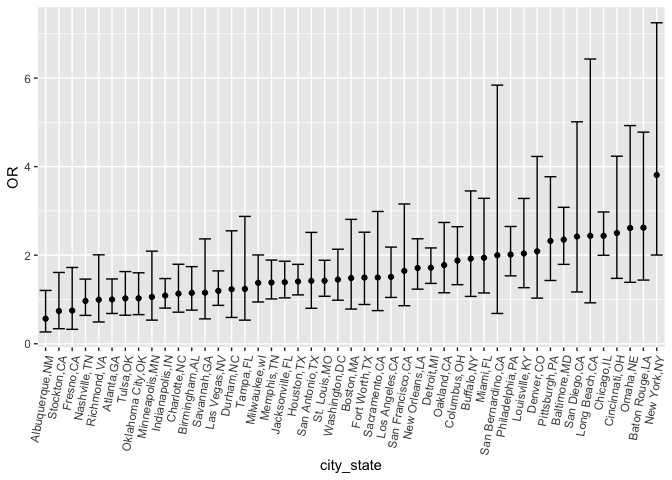
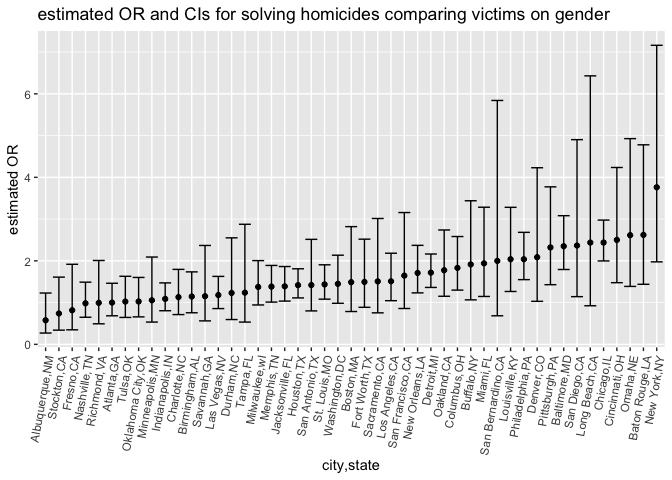
Making comparison in terms of the cross-validated prediction error.

diff --git a/p8105_hw6_jd3924.md b/p8105_hw6_jd3924.md
@@ -40,14 +40,21 @@ Question2
 
 ``` r
 homicides_data = 
-  read_csv("homicide-data.csv") %>%
+  read_csv("homicide-data.csv", na =" ") %>%
+  drop_na() %>%
   mutate(
     city_state = str_c(city,state, sep = ","),
     victim_age = as.numeric(victim_age),
     resolved = ifelse(disposition %in% c("Closed without arrest","Open/No arrest"), "unsolved","solved")) %>%
   filter(victim_race %in% c("White", "Black"),
-         city_state != "Tulsa,AL")
+         !city_state %in% c("Tulsa,AL","Dallas,TX","Phoenix,AZ","Kansas City,MO"),
+         victim_age != "Unknown")
 ```
+
+    ## Warning: One or more parsing issues, call `problems()` on your data frame for details,
+    ## e.g.:
+    ##   dat <- vroom(...)
+    ##   problems(dat)
 
     ## Rows: 52179 Columns: 12
     ## ── Column specification ────────────────────────────────────────────────────────
@@ -64,20 +71,20 @@ homicides_data =
 homicides_data
 ```
 
-    ## # A tibble: 39,693 × 14
+    ## # A tibble: 39,361 × 14
     ##    uid   repor…¹ victi…² victi…³ victi…⁴ victi…⁵ victi…⁶ city  state   lat   lon
     ##    <chr>   <dbl> <chr>   <chr>   <chr>     <dbl> <chr>   <chr> <chr> <dbl> <dbl>
     ##  1 Alb-…  2.01e7 SATTER… VIVIANA White        15 Female  Albu… NM     35.1 -107.
     ##  2 Alb-…  2.01e7 MULA    VIVIAN  White        72 Female  Albu… NM     35.1 -107.
     ##  3 Alb-…  2.01e7 BOOK    GERALD… White        91 Female  Albu… NM     35.2 -107.
     ##  4 Alb-…  2.01e7 MARTIN… GUSTAVO White        56 Male    Albu… NM     35.1 -107.
-    ##  5 Alb-…  2.01e7 LUJAN   KEVIN   White        NA Male    Albu… NM     35.1 -107.
-    ##  6 Alb-…  2.01e7 GRAY    STEFAN… White        43 Female  Albu… NM     35.1 -107.
-    ##  7 Alb-…  2.01e7 DAVID   LARRY   White        52 Male    Albu… NM     NA     NA 
-    ##  8 Alb-…  2.01e7 BRITO   ELIZAB… White        22 Female  Albu… NM     35.1 -107.
-    ##  9 Alb-…  2.01e7 KING    TEVION  Black        15 Male    Albu… NM     35.1 -107.
-    ## 10 Alb-…  2.01e7 BOYKIN  CEDRIC  Black        25 Male    Albu… NM     35.1 -107.
-    ## # … with 39,683 more rows, 3 more variables: disposition <chr>,
+    ##  5 Alb-…  2.01e7 GRAY    STEFAN… White        43 Female  Albu… NM     35.1 -107.
+    ##  6 Alb-…  2.01e7 BRITO   ELIZAB… White        22 Female  Albu… NM     35.1 -107.
+    ##  7 Alb-…  2.01e7 KING    TEVION  Black        15 Male    Albu… NM     35.1 -107.
+    ##  8 Alb-…  2.01e7 BOYKIN  CEDRIC  Black        25 Male    Albu… NM     35.1 -107.
+    ##  9 Alb-…  2.01e7 BARRAG… MIGUEL  White        20 Male    Albu… NM     35.1 -107.
+    ## 10 Alb-…  2.01e7 WRONSKI VIOLA   White        88 Female  Albu… NM     35.1 -107.
+    ## # … with 39,351 more rows, 3 more variables: disposition <chr>,
     ## #   city_state <chr>, resolved <chr>, and abbreviated variable names
     ## #   ¹reported_date, ²victim_last, ³victim_first, ⁴victim_race, ⁵victim_age,
     ## #   ⁶victim_sex
@@ -149,11 +156,11 @@ glm_cities
     ## # A tibble: 193 × 9
     ##    city_state     term   estimate std.e…¹ statis…² p.value      OR lower   upper
     ##    <chr>          <chr>     <dbl>   <dbl>    <dbl>   <dbl>   <dbl> <dbl>   <dbl>
-    ##  1 Albuquerque,NM (Inte… -6.12e-1 6.32e-1 -9.69e-1 3.33e-1 5.42e-1 0.157   1.87 
-    ##  2 Albuquerque,NM victi…  1.97e-2 9.09e-3  2.16e+0 3.04e-2 1.02e+0 1.00    1.04 
-    ##  3 Albuquerque,NM victi… -4.12e-1 4.16e-1 -9.90e-1 3.22e-1 6.62e-1 0.293   1.50 
-    ##  4 Albuquerque,NM victi… -5.70e-1 3.85e-1 -1.48e+0 1.39e-1 5.66e-1 0.266   1.20 
-    ##  5 Albuquerque,NM victi…  1.46e+1 8.83e+2  1.65e-2 9.87e-1 2.12e+6 0     Inf    
+    ##  1 Albuquerque,NM (Inte… -6.47e-1 6.34e-1 -1.02e+0 3.07e-1 5.23e-1 0.151   1.81 
+    ##  2 Albuquerque,NM victi…  2.01e-2 9.11e-3  2.21e+0 2.71e-2 1.02e+0 1.00    1.04 
+    ##  3 Albuquerque,NM victi… -3.96e-1 4.17e-1 -9.49e-1 3.42e-1 6.73e-1 0.298   1.52 
+    ##  4 Albuquerque,NM victi… -5.50e-1 3.86e-1 -1.43e+0 1.54e-1 5.77e-1 0.271   1.23 
+    ##  5 Albuquerque,NM victi…  1.46e+1 8.83e+2  1.65e-2 9.87e-1 2.17e+6 0     Inf    
     ##  6 Atlanta,GA     (Inte… -8.69e-1 2.42e-1 -3.60e+0 3.21e-4 4.19e-1 0.261   0.673
     ##  7 Atlanta,GA     victi…  1.16e-2 4.66e-3  2.50e+0 1.24e-2 1.01e+0 1.00    1.02 
     ##  8 Atlanta,GA     victi… -2.69e-1 2.84e-1 -9.45e-1 3.45e-1 7.64e-1 0.438   1.33 
@@ -169,17 +176,27 @@ male_vs_female =
   ggplot(aes(x = city_state, y = OR)) +
   geom_point() + 
   geom_errorbar(aes(ymin = lower, ymax = upper)) + 
-  theme(axis.text.x = element_text(angle = 80, hjust = 1))
+  theme(axis.text.x = element_text(angle = 80, hjust = 1)) +
+  labs(
+    x = "city,state",
+    y = "estimated OR",
+    title = "estimated OR and CIs for solving homicides comparing victims on gender"
+  )
 male_vs_female
 ```
 
 ![](p8105_hw6_jd3924_files/figure-gfm/unnamed-chunk-6-1.png)<!-- -->
+Holding all other variables constant, homicides with male victims are
+relatively less likely to be resolved than homicides with female victims
+in all cities.
+
 Question3
 
 ``` r
 birthweight = 
   read_csv("birthweight.csv") %>%
   janitor::clean_names() %>%
+  drop_na() %>%
   mutate(
     babysex = as.factor(babysex),
     frace = as.factor(frace),
@@ -280,7 +297,7 @@ map(birthweight, ~ sum(is.na(.)))
     ## $wtgain
     ## [1] 0
 
-There is no NA that contained in the dataset.
+There is no NA in the dataset.
 
 ``` r
 model_fit = lm(bwt ~ ., data = birthweight)
@@ -418,3 +435,82 @@ glm(bwt ~ bhead * blength * babysex, data = birthweight)
     ## Degrees of Freedom: 4341 Total (i.e. Null);  4334 Residual
     ## Null Deviance:       1.139e+09 
     ## Residual Deviance: 358800000     AIC: 61500
+
+``` r
+cv_df = 
+  crossv_mc(birthweight, 100) %>% 
+   mutate(
+    train = map(train, as_tibble),
+    test = map(test, as_tibble))
+cv_df
+```
+
+    ## # A tibble: 100 × 3
+    ##    train                 test                .id  
+    ##    <list>                <list>              <chr>
+    ##  1 <tibble [3,473 × 20]> <tibble [869 × 20]> 001  
+    ##  2 <tibble [3,473 × 20]> <tibble [869 × 20]> 002  
+    ##  3 <tibble [3,473 × 20]> <tibble [869 × 20]> 003  
+    ##  4 <tibble [3,473 × 20]> <tibble [869 × 20]> 004  
+    ##  5 <tibble [3,473 × 20]> <tibble [869 × 20]> 005  
+    ##  6 <tibble [3,473 × 20]> <tibble [869 × 20]> 006  
+    ##  7 <tibble [3,473 × 20]> <tibble [869 × 20]> 007  
+    ##  8 <tibble [3,473 × 20]> <tibble [869 × 20]> 008  
+    ##  9 <tibble [3,473 × 20]> <tibble [869 × 20]> 009  
+    ## 10 <tibble [3,473 × 20]> <tibble [869 × 20]> 010  
+    ## # … with 90 more rows
+
+``` r
+cv_df = 
+  cv_df %>% 
+  mutate(
+    mod1 = map(train, ~glm(bwt ~ babysex + bhead + blength + gaweeks + mrace + parity + smoken, data = .x)),
+    mod2 = map(train, ~glm(bwt ~ blength + gaweeks, data = .x)),
+    mod3 = map(train, ~glm(bwt ~ bhead * blength * babysex, data =.x))) %>%
+  mutate(
+    rmse_mod1 = map2_dbl(.x=mod1, .y=test, ~rmse(model = .x, data = .y)),
+    rmse_mod2 = map2_dbl(.x=mod2, .y=test, ~rmse(model = .x, data = .y)),
+    rmse_mod3 = map2_dbl(.x=mod3, .y=test, ~rmse(model = .x, data = .y)))
+```
+
+    ## Warning in predict.lm(object, newdata, se.fit, scale = 1, type = if (type == :
+    ## 用秩缺乏拟合来进行预测的结果很可能不可靠
+
+    ## Warning in predict.lm(object, newdata, se.fit, scale = 1, type = if (type == :
+    ## 用秩缺乏拟合来进行预测的结果很可能不可靠
+
+``` r
+cv_df
+```
+
+    ## # A tibble: 100 × 9
+    ##    train    test                .id   mod1   mod2  mod3  rmse_…¹ rmse_…² rmse_…³
+    ##    <list>   <list>              <chr> <list> <lis> <lis>   <dbl>   <dbl>   <dbl>
+    ##  1 <tibble> <tibble [869 × 20]> 001   <glm>  <glm> <glm>    293.    342.    301.
+    ##  2 <tibble> <tibble [869 × 20]> 002   <glm>  <glm> <glm>    273.    328.    282.
+    ##  3 <tibble> <tibble [869 × 20]> 003   <glm>  <glm> <glm>    277.    318.    284.
+    ##  4 <tibble> <tibble [869 × 20]> 004   <glm>  <glm> <glm>    269.    332.    283.
+    ##  5 <tibble> <tibble [869 × 20]> 005   <glm>  <glm> <glm>    263.    321.    277.
+    ##  6 <tibble> <tibble [869 × 20]> 006   <glm>  <glm> <glm>    287.    356.    299.
+    ##  7 <tibble> <tibble [869 × 20]> 007   <glm>  <glm> <glm>    281.    325.    289.
+    ##  8 <tibble> <tibble [869 × 20]> 008   <glm>  <glm> <glm>    267.    324.    280.
+    ##  9 <tibble> <tibble [869 × 20]> 009   <glm>  <glm> <glm>    279.    339.    287.
+    ## 10 <tibble> <tibble [869 × 20]> 010   <glm>  <glm> <glm>    287.    329.    295.
+    ## # … with 90 more rows, and abbreviated variable names ¹rmse_mod1, ²rmse_mod2,
+    ## #   ³rmse_mod3
+
+``` r
+cv_df %>% 
+  select(starts_with("rmse")) %>% 
+  pivot_longer(
+    everything(),
+    names_to = "model", 
+    values_to = "rmse",
+    names_prefix = "rmse_") %>% 
+  mutate(model = fct_inorder(model)) %>% 
+  ggplot(aes(x = model, y = rmse)) + geom_violin()
+```
+
+![](p8105_hw6_jd3924_files/figure-gfm/unnamed-chunk-17-1.png)<!-- -->
+Among these model, mod 1 is the best among these three model because it
+has lowest rmse.
